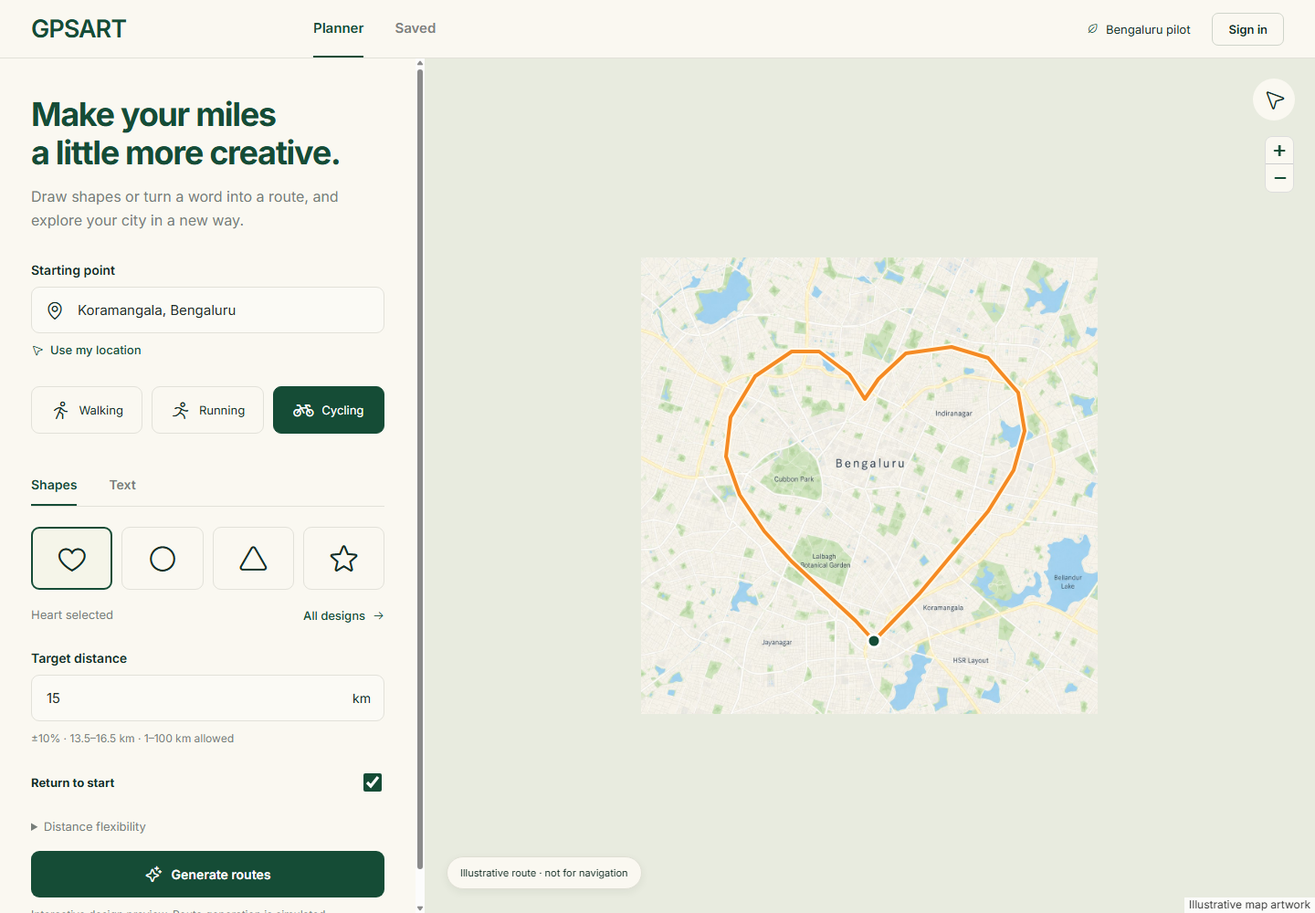
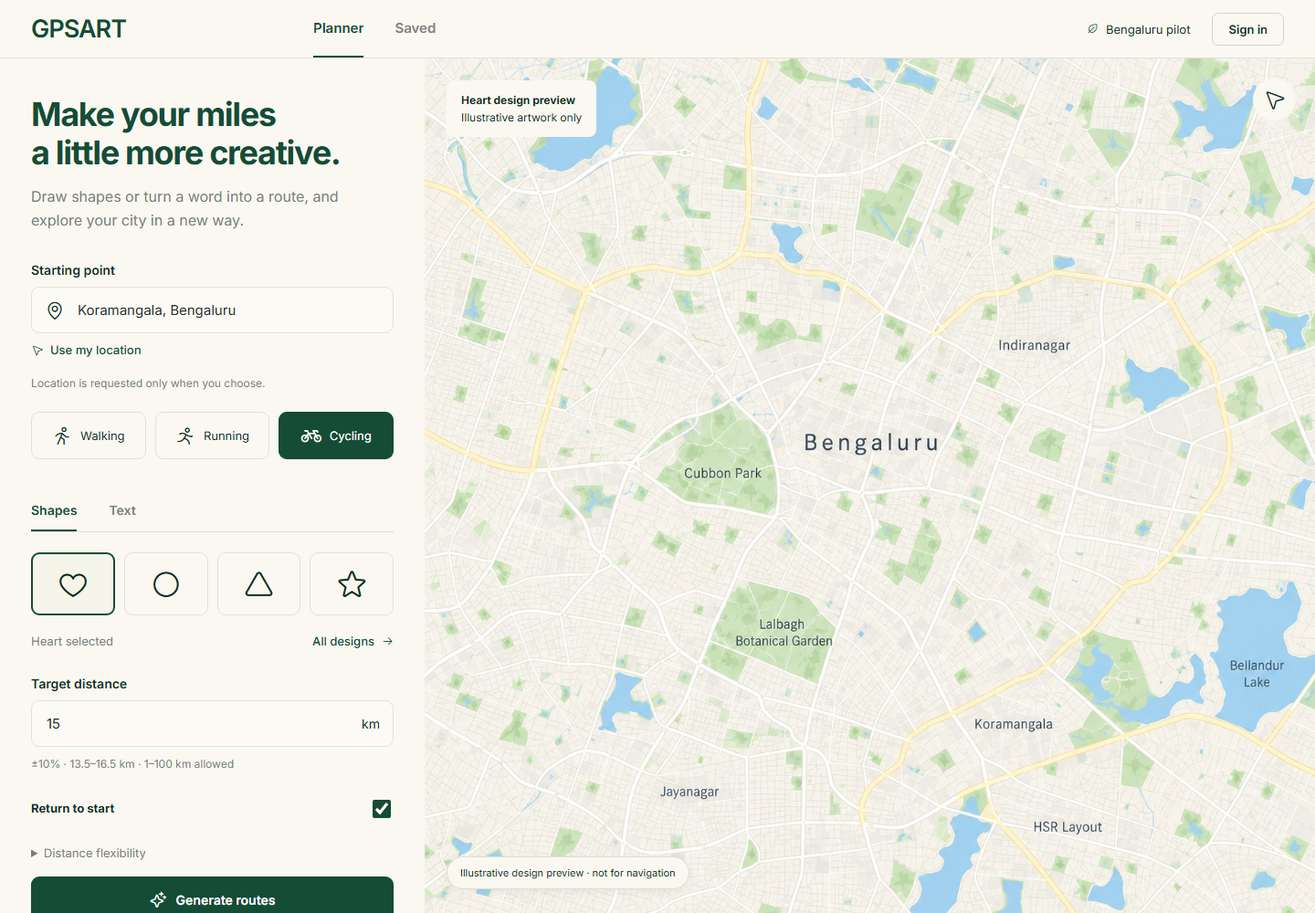
feat(client): complete native TypeScript shell

diff --git a/src/app/screen-controller.ts b/src/app/screen-controller.ts
@@ -1,41 +1,83 @@
 import { distanceBounds } from "../domain/planner.ts";
 import type { LoadedSnapshots } from "../client/storage.ts";
+import { previewsFor } from "./catalogue.ts";
 import type { AppState } from "./state.ts";
-import type { Screen } from "./router.ts";
+import { screens, type Screen } from "./router.ts";
 
-const escapeHtml = (value: string) => value.replace(/[&<>'"]/g, (character) => ({ "&": "&amp;", "<": "&lt;", ">": "&gt;", "'": "&#39;", '"': "&quot;" })[character] ?? character);
-const link = (screen: Screen, label: string) => `<a class="textbutton" href="#/${screen}">${label}</a>`;
-const top = (title: string, subtitle: string) => `<div class="section-top">${link("planner", "Back to planner")}<h1>${title}</h1><p class="muted small">${subtitle}</p></div>`;
+const escapeHtml = (value: string): string => value.replace(/[&<>'"]/g, (character) => ({ "&": "&amp;", "<": "&lt;", ">": "&gt;", "'": "&#39;", '"': "&quot;" })[character] ?? character);
+const icon = (name: string): string => `<i class="ph ph-${name}" aria-hidden="true"></i>`;
+const link = (screen: Screen, label: string): string => `<a class="textbutton" href="#/${screen}">${label}</a>`;
+const top = (title: string, subtitle: string, back: Screen = "planner"): string => `<div class="section-top">${link(back, `${icon("arrow-left")} ${back === "results" ? "Back to results" : "Back to planner"}`)}<h1>${title}</h1><p class="muted small">${subtitle}</p></div>`;
 
-function planner(state: AppState): string {
-  const { request } = state;
-  const bounds = distanceBounds(request.distanceKm, request.tolerancePercent);
-  return `<div class="intro"><h1>Make your miles<br>a little more creative.</h1><p>Choose a design and request a route from the supported service.</p></div><form id="plan-form"><div class="field"><label for="start">Starting point</label><div class="inputwrap"><input id="start" value="${escapeHtml(request.start)}" required placeholder="Place or latitude, longitude"></div><p class="helper">The start is validated by the routing service; it is never silently moved.</p></div><div class="activities" role="group" aria-label="Activity">${(["Walking", "Running", "Cycling"] as const).map((activity) => `<button type="button" class="activity ${request.activity === activity ? "selected" : ""}" data-activity="${activity}" aria-pressed="${request.activity === activity}">${activity}</button>`).join("")}</div><div class="field"><label for="distance">Target distance</label><div class="inputwrap"><input id="distance" type="number" min="1" max="100" step="0.1" value="${request.distanceKm}" required><span>km</span></div><p class="helper">${bounds.minimumKm.toFixed(1)}–${bounds.maximumKm.toFixed(1)} km at ±${request.tolerancePercent}%</p></div><div class="settings"><label class="between small"><strong>Return to start</strong><span class="toggle"><input id="loop" type="checkbox" ${request.returnsToStart ? "checked" : ""}></span></label></div><button class="primary full" type="submit">Generate routes</button></form>`;
+function summary(state: AppState): string {
+  const request = state.request;
+  return `<div class="summary"><strong>${escapeHtml(request.design)} · ${request.activity} · ${request.distanceKm.toFixed(1)} km</strong>${escapeHtml(request.start)}<br>±${request.tolerancePercent}% · ${request.returnsToStart ? "Return to start" : "Separate finish · travel home excluded"}</div>`;
 }
 
-function unavailableResult(title: string, copy: string): string {
-  return `${top(title, copy)}<div class="notice">No route candidate is shown until the server returns a validated, immutable route snapshot. GPSART does not create geometry, distance, safety, or success data in the browser.</div>${link("planner", "Edit request")}`;
+function designPicker(state: AppState, full = false): string {
+  const previews = previewsFor(state.category);
+  const shown = full ? previews : previews.slice(0, 4);
+  return `<div class="tabs" role="tablist" aria-label="Design category">${(["Shapes", "Text"] as const).map((category) => `<button type="button" role="tab" aria-selected="${state.category === category}" class="${state.category === category ? "active" : ""}" data-category="${category}">${category}</button>`).join("")}</div><div class="designs">${shown.map(({ name, icon: iconName, complexity }) => `<button type="button" class="design ${name === state.request.design ? "selected" : ""}" data-design="${name}" aria-label="${name}, ${complexity}" aria-pressed="${name === state.request.design}">${iconName ? icon(iconName) : `<b>${name}</b>`}${full ? `<span class="design-name">${name} · ${complexity}</span>` : ""}</button>`).join("")}</div>`;
+}
+
+function planner(state: AppState): string {
+  const request = state.request;
+  const bounds = distanceBounds(request.distanceKm, request.tolerancePercent);
+  return `<div class="intro"><h1>Make your miles<br>a little more creative.</h1><p>Draw shapes or turn a word into a route, and explore your city in a new way.</p></div><form id="plan-form"><div class="field"><label for="start">Starting point</label><div class="inputwrap">${icon("map-pin")}<input id="start" name="start" value="${escapeHtml(request.start)}" required autocomplete="off" placeholder="Place or latitude, longitude"></div><button type="button" class="textbutton" data-action="location">${icon("navigation-arrow")} Use my location</button><p id="location-status" class="helper">Location is requested only when you choose.</p></div><div class="activities" role="group" aria-label="Activity">${(["Walking", "Running", "Cycling"] as const).map((activity) => `<button type="button" class="activity ${request.activity === activity ? "selected" : ""}" data-activity="${activity}" aria-pressed="${request.activity === activity}">${icon(activity === "Walking" ? "person-simple-walk" : activity === "Running" ? "person-simple-run" : "bicycle")}${activity}</button>`).join("")}</div><div id="design-picker">${designPicker(state)}</div><div class="between" style="margin-top:-20px;margin-bottom:20px"><span class="small muted">${escapeHtml(request.design)} selected</span>${link("catalogue", `All designs ${icon("arrow-right")}`)}</div><div class="field"><label for="distance">Target distance</label><div class="inputwrap"><input id="distance" name="distance" type="number" value="${request.distanceKm}" min="1" max="100" step="0.1" required><span>km</span></div><p id="distance-help" class="helper">±${request.tolerancePercent}% · ${bounds.minimumKm.toFixed(1)}–${bounds.maximumKm.toFixed(1)} km · 1–100 km allowed</p></div><div class="settings"><label class="between small"><strong>Return to start</strong><span class="toggle"><input type="checkbox" id="loop" ${request.returnsToStart ? "checked" : ""} aria-label="Return to start"></span></label></div><details><summary class="small muted" style="cursor:pointer;margin-bottom:16px">Distance flexibility</summary><div class="row"><label for="tolerance">Allowed difference</label><select id="tolerance">${[5, 10, 20].map((value) => `<option value="${value}" ${request.tolerancePercent === value ? "selected" : ""}>±${value}%</option>`).join("")}</select></div></details><button class="primary full" type="submit">${icon("sparkle")} Generate routes</button><p class="helper">The design map is illustrative. Route generation requires the routing service.</p></form>`;
+}
+
+function catalogue(state: AppState): string {
+  return `<div class="catalogue">${top("What will you draw?", "Choose a shape or a ready-made word. Local fit is checked only by the routing service.")}${designPicker(state, true)}<div class="notice">Some designs need more space or repeated sections. Every real connecting section will count toward distance.</div><a class="primary full" href="#/planner">Use ${escapeHtml(state.request.design)} ${icon("arrow-right")}</a><p class="helper">Custom words are planned for a later release.</p></div>`;
+}
+
+function generating(state: AppState): string {
+  return `${top("Finding your next adventure.", "A validated service response is required before a route can be shown.")}${summary(state)}<div class="demo-strip">Routing service unavailable in this foundation build · no search has been simulated.</div><ol class="stage-list" aria-live="polite"><li class="pending">${icon("circle")} Checking roads</li><li class="pending">${icon("circle")} Fitting your design</li><li class="pending">${icon("circle")} Comparing routes</li></ol><p class="small muted">Your request is retained, but no geometry or metrics have been created.</p><a class="secondary full" style="margin-top:24px" href="#/planner">Cancel search</a>`;
+}
+
+function unavailableResult(state: AppState, details: boolean): string {
+  return `${top(details ? "Route details" : "A few ways to make it yours.", details ? "A validated candidate is required before details can be shown." : "Validated route candidates will appear here.", details ? "results" : "planner")}${summary(state)}<span class="hero-icon">${icon("map-trifold")}</span><div class="notice">No route candidate is displayed. GPSART never creates geometry, connectivity, distance, access, instructions, or success metrics in the browser.</div>${link("planner", "Refine your plan")}`;
 }
 
 function saved(loaded: LoadedSnapshots): string {
-  const content = loaded.kind === "unsupported_snapshot" ? "A saved route from an older or unsupported format was found. It has not been loaded." : loaded.kind === "unavailable" ? "Browser storage is unavailable. No route data has been changed." : loaded.snapshots.length ? `${loaded.snapshots.length} validated route snapshot(s) are stored on this device.` : "No validated route snapshots are stored on this device.";
-  return `${top("Your next adventures.", "Saved routes stay on this device unless you choose otherwise.")}<div class="notice">${content}</div>${link("planner", "Plan a route")}`;
+  let content: string;
+  if (loaded.kind === "unsupported_snapshot") content = `<div class="notice">A saved route uses an older, malformed, or unsupported format. It has not been loaded or changed.</div>`;
+  else if (loaded.kind === "unavailable") content = `<div class="notice">Browser storage is unavailable. No route data has been changed.</div>`;
+  else if (!loaded.snapshots.length) content = `<div class="empty-space">${icon("bookmark-simple")}<h2 style="margin:18px 0 12px">A little inspiration for later.</h2><p class="muted small">Save a validated route and it will be waiting here for your next outing.</p><a class="primary full" style="margin-top:28px" href="#/planner">Plan your first route ${icon("arrow-right")}</a></div>`;
+  else content = loaded.snapshots.map((snapshot) => `<article class="saved-row"><span class="eyebrow">Validated route snapshot v${snapshot.version}</span><h3 style="margin-top:10px">${escapeHtml(snapshot.id)}</h3><p class="small muted">${(snapshot.totalMetres / 1000).toFixed(1)} km · ${snapshot.trace.length} recorded points</p><p class="helper">Full route details become available with the route-detail service.</p></article>`).join("");
+  return `${top("Your next adventures.", "Saved on this device. No account needed.")}<div class="notice">These routes stay in this browser. Clearing site data removes them.</div>${content}`;
+}
+
+function failure(screen: "no-match" | "coverage" | "error", state: AppState): string {
+  const copy = screen === "coverage" ? ["Outside our pilot area", "Coverage must be confirmed by the service.", "map-trifold"] : screen === "error" ? ["The route service is unavailable.", "Your inputs are safe and unchanged.", "cloud-slash"] : ["We couldn’t find a fit this time.", "No qualifying route was returned within the search budget.", "path"];
+  return `${top(copy[0], copy[1])}<span class="hero-icon">${icon(copy[2])}</span>${summary(state)}${screen === "no-match" ? `<h3>Try a different approach</h3><p class="notice">Change the distance or design. Suggestions are not treated as routing facts until checked by the service.</p>` : `<div class="notice">${screen === "coverage" ? "No coverage is assumed in the browser." : "Try again when the service is available."}</div>`}${link("planner", "Edit your original request")}`;
+}
+
+function auth(screen: Screen, state: AppState): string {
+  let content: string;
+  if (screen === "login") content = `<span class="eyebrow">A little more connected</span><h1>Your next adventure starts here.</h1><p>Sign in to make GPSART yours. You can always plan and save routes on this device as a guest.</p><button class="google" type="button" data-action="google"><img src="/assets/google-logo.png" alt="">Continue with Google</button><div class="or">or</div><a class="secondary full" href="#/planner">Continue as guest ${icon("arrow-right")}</a><ul class="auth-checks"><li>${icon("check")} No password to remember</li><li>${icon("lock-simple")} Your routes are private by default</li><li>${icon("map-pin")} Location is requested only when you choose</li></ul><div class="demo-strip">Design preview: authentication is not connected. No Google account is accessed.</div>`;
+  else if (screen === "auth-pending") content = `<span class="hero-icon">${icon("circle-notch")}</span><h1>Connecting with Google.</h1><p>No authentication request is sent in this foundation build.</p><div role="status" class="notice">Authentication unavailable.</div>${link("login", "Cancel sign-in")}`;
+  else if (screen === "auth-error") content = `<span class="hero-icon">${icon("warning-circle")}</span><h1>Let’s try that again.</h1><p>Sign-in could not be completed. Your plan and saved routes are still here.</p>${link("login", "Return to sign in")}`;
+  else if (screen === "welcome") content = `<span class="hero-icon">${icon("check-circle")}</span><span class="eyebrow">You’re ready to explore</span><h1>Welcome to GPSART.</h1><p>Your next route is only a few choices away.</p>${link("planner", "Start planning")}`;
+  else content = `<div class="avatar">${icon("user")}</div><span class="eyebrow">${state.signedIn ? "Account" : "Guest"}</span><h1>Your corner of GPSART.</h1><p>Account services are not connected in this build.</p><div class="rows"><div class="row"><span>Route storage</span><strong>On this device</strong></div><div class="row"><span>Cloud sync</span><span>Not connected</span></div></div><a class="primary full" href="#/saved">View saved routes</a>`;
+  return `<main id="content" class="auth-layout"><section class="auth-form"><div class="auth-inner">${content}</div></section><aside class="auth-art" aria-label="Illustrative Bengaluru map"><img src="/assets/map.jpg" alt="Pale illustrative street map of Bengaluru"><div class="auth-quote"><span class="eyebrow">Take the scenic shape</span><h2 style="margin-top:12px">Make your miles<br>a little more creative.</h2><p class="small muted">Illustrative artwork · not a navigable route.</p></div></aside></main>`;
+}
+
+function screenIndex(): string {
+  return `<main id="content" class="screen-index"><span class="eyebrow">GPSART · Design review</span><h1>Every step of the adventure.</h1><p class="muted">Review each state without simulating backend success.</p><div class="screen-list">${screens.filter((screen) => screen !== "screens").map((screen) => `<a class="screen-link" href="#/${screen}"><h3>${screen}</h3><p>Open the ${screen} state.</p></a>`).join("")}</div></main>`;
+}
+
+export function isStandaloneScreen(screen: Screen): boolean {
+  return ["login", "auth-pending", "auth-error", "welcome", "account", "screens"].includes(screen);
 }
 
 export function renderScreen(screen: Screen, state: AppState, loaded: LoadedSnapshots): string {
   if (screen === "planner") return planner(state);
-  if (screen === "catalogue") return `${top("What will you draw?", "Choose a template; local fit is checked by the routing service.")}<div class="designs"><button class="design selected" data-design="Heart">Heart</button><button class="design" data-design="HI">HI</button></div>${link("planner", "Use selected design")}`;
-  if (screen === "generating") return `${top("Finding your next adventure.", "A route request is waiting for a routing service.")}<div class="notice">Generation status is unavailable because no routing service is connected. Your request is retained locally in this page only.</div>${link("planner", "Cancel request")}`;
-  if (screen === "results") return unavailableResult("Route results", "Validated route candidates will appear here.");
-  if (screen === "details") return unavailableResult("Route details", "A validated candidate is required before details can be shown.");
+  if (screen === "catalogue") return catalogue(state);
+  if (screen === "generating") return generating(state);
+  if (screen === "results") return unavailableResult(state, false);
+  if (screen === "details") return unavailableResult(state, true);
   if (screen === "saved") return saved(loaded);
-  if (screen === "no-match") return `${top("We couldn’t find a fit this time.", "No qualifying route was returned within the search budget.")}<div class="notice">Try changing the design or distance. Suggestions are not treated as routing facts.</div>${link("planner", "Edit request")}`;
-  if (screen === "coverage") return `${top("Outside our pilot area", "Coverage must be confirmed by the service.")}<div class="notice">No coverage data is assumed in the browser.</div>${link("planner", "Change starting point")}`;
-  if (screen === "error") return `${top("The route service is unavailable.", "Your input was not changed.")}<div class="notice">Try again when the service is available.</div>${link("planner", "Back to planner")}`;
-  if (screen === "login") return `${top("Your next adventure starts here.", "You can plan as a guest.")}<div class="notice">Authentication is not connected in this build.</div>${link("planner", "Continue as guest")}`;
-  if (screen === "auth-pending") return `${top("Connecting account", "Authentication state is pending.")}<div class="notice">No account data is accessed by this prototype.</div>${link("login", "Cancel sign-in")}`;
-  if (screen === "auth-error") return `${top("Let’s try that again.", "Authentication could not be completed.")}${link("login", "Return to sign in")}`;
-  if (screen === "welcome") return `${top("Welcome to GPSART.", "You’re ready to plan.")}${link("planner", "Start planning")}`;
-  if (screen === "account") return `${top("Your account", "Account data is not connected in this build.")}${link("planner", "Back to planner")}`;
-  return `<main id="content" class="screen-index"><span class="eyebrow">GPSART · Design review</span><h1>Every step of the adventure.</h1><div class="screen-list">${(["planner", "catalogue", "generating", "results", "details", "saved", "no-match", "coverage", "error", "login", "auth-pending", "auth-error", "welcome", "account"] as Screen[]).map((item) => `<a class="screen-link" href="#/${item}"><h3>${item}</h3></a>`).join("")}</div></main>`;
+  if (screen === "no-match" || screen === "coverage" || screen === "error") return failure(screen, state);
+  if (screen === "screens") return screenIndex();
+  return auth(screen, state);
 }

diff --git a/src/app.ts b/src/app.ts
@@ -5,30 +5,96 @@ import "@fontsource/inter/700.css";
 import "@phosphor-icons/web/regular";
 import "./styles.css";
 import { loadRouteSnapshots } from "./client/storage.ts";
-import { unavailableMap } from "./app/map.ts";
-import { currentScreen, navigate, type Screen } from "./app/router.ts";
-import { renderScreen } from "./app/screen-controller.ts";
-import { initialState, updateRequest } from "./app/state.ts";
+import { renderMap } from "./app/map.ts";
+import { currentScreen, navigate } from "./app/router.ts";
+import { isStandaloneScreen, renderScreen } from "./app/screen-controller.ts";
+import { beginRequest, initialState, updateRequest, updateUi } from "./app/state.ts";
+import type { DesignCategory } from "./app/catalogue.ts";
+import type { RouteRequest } from "./domain/planner.ts";
 
 let state = initialState();
 const app = document.querySelector<HTMLElement>("#app");
 if (!app) throw new Error("GPSART requires an #app element");
 const appRoot = app;
 
+function header(screen: string): string {
+  const plannerActive = !["saved", "login", "account", "welcome", "screens"].includes(screen);
+  return `<header class="header"><a class="brand" href="#/planner" aria-label="GPSART home">GPSART</a><nav class="nav" aria-label="Main navigation"><a href="#/planner" class="${plannerActive ? "active" : ""}">Planner</a><a href="#/saved" class="${screen === "saved" ? "active" : ""}">Saved</a></nav><div class="header-end"><span class="pilot"><i class="ph ph-leaf" aria-hidden="true"></i> Bengaluru pilot</span><a class="signin" href="#/${state.signedIn ? "account" : "login"}">${state.signedIn ? "My account" : "Sign in"}</a></div></header>`;
+}
+
 function render(): void {
   const screen = currentScreen(window.location.hash, document.body.dataset.screen);
   const loaded = loadRouteSnapshots(window.localStorage);
-  const workspace = screen === "login" || screen === "auth-pending" || screen === "auth-error" || screen === "welcome" || screen === "account" || screen === "screens" ? renderScreen(screen, state, loaded) : `<main id="content" class="workspace"><section class="panel" aria-label="${screen}">${renderScreen(screen, state, loaded)}</section>${unavailableMap()}</main>`;
-  appRoot.innerHTML = `<header class="header"><a class="brand" href="#/planner" aria-label="GPSART home">GPSART</a><nav class="nav" aria-label="Main navigation">${["planner", "saved"].map((item) => `<a href="#/${item}" class="${screen === item ? "active" : ""}">${item === "planner" ? "Planner" : "Saved"}</a>`).join("")}</nav><div class="header-end"><a class="signin" href="#/login">Sign in</a></div></header>${workspace}`;
+  const body = isStandaloneScreen(screen)
+    ? renderScreen(screen, state, loaded)
+    : `<main id="content" class="workspace ${state.mapExpanded ? "expanded" : ""}"><section class="panel" aria-label="${screen}"><button class="mobile-expand" type="button" data-action="expand"><i class="ph ph-arrows-out-simple" aria-hidden="true"></i> ${state.mapExpanded ? "Reduce map" : "Expand map"}</button>${renderScreen(screen, state, loaded)}</section>${renderMap(screen, state)}</main>`;
+  appRoot.innerHTML = `${header(screen)}${body}`;
   document.title = `${screen} · GPSART`;
   bind();
+  window.scrollTo(0, 0);
+}
+
+function inputValue(id: string): string {
+  return document.querySelector<HTMLInputElement>(`#${id}`)?.value.trim() ?? "";
+}
+
+function patchRequest(changes: Omit<Partial<RouteRequest>, "revision">, rerender = true): void {
+  state = updateRequest(state, changes);
+  if (rerender) render();
+}
+
+function useBrowserLocation(): void {
+  const status = document.querySelector<HTMLElement>("#location-status");
+  if (!status) return;
+  if (!navigator.geolocation) {
+    status.textContent = "Location is unavailable. Enter a place or coordinates.";
+    return;
+  }
+  status.textContent = "Waiting for location permission…";
+  navigator.geolocation.getCurrentPosition(
+    ({ coords }) => {
+      const start = `${coords.latitude.toFixed(5)}, ${coords.longitude.toFixed(5)}`;
+      patchRequest({ start }, false);
+      const input = document.querySelector<HTMLInputElement>("#start");
+      if (input) input.value = start;
+      status.textContent = "Location selected. Coverage still requires server validation.";
+    },
+    () => { status.textContent = "Location unavailable or permission denied. Enter a place or coordinates."; },
+    { timeout: 10_000, maximumAge: 60_000 },
+  );
 }
 
 function bind(): void {
-  document.querySelectorAll<HTMLButtonElement>("[data-activity]").forEach((button) => button.addEventListener("click", () => { state = updateRequest(state, { activity: button.dataset.activity as typeof state.request.activity }); render(); }));
-  document.querySelectorAll<HTMLButtonElement>("[data-design]").forEach((button) => button.addEventListener("click", () => { state = updateRequest(state, { design: button.dataset.design ?? state.request.design }); navigate("planner"); }));
-  const form = document.querySelector<HTMLFormElement>("#plan-form");
-  form?.addEventListener("submit", (event) => { event.preventDefault(); const start = document.querySelector<HTMLInputElement>("#start")?.value.trim() ?? ""; const distance = Number(document.querySelector<HTMLInputElement>("#distance")?.value); const returnsToStart = document.querySelector<HTMLInputElement>("#loop")?.checked ?? true; if (!start || !Number.isFinite(distance) || distance < 1 || distance > 100) return; state = updateRequest(state, { start, distanceKm: distance, returnsToStart }); navigate("generating"); });
+  document.querySelectorAll<HTMLButtonElement>("[data-activity]").forEach((button) => button.addEventListener("click", () => {
+    const activity = button.dataset.activity as RouteRequest["activity"] | undefined;
+    if (activity) patchRequest({ activity });
+  }));
+  document.querySelectorAll<HTMLButtonElement>("[data-category]").forEach((button) => button.addEventListener("click", () => {
+    const category = button.dataset.category as DesignCategory | undefined;
+    if (category) { state = updateUi(state, { category }); render(); }
+  }));
+  document.querySelectorAll<HTMLButtonElement>("[data-design]").forEach((button) => button.addEventListener("click", () => {
+    const design = button.dataset.design;
+    if (design) patchRequest({ design });
+  }));
+  document.querySelector<HTMLInputElement>("#start")?.addEventListener("change", () => patchRequest({ start: inputValue("start") }));
+  document.querySelector<HTMLInputElement>("#distance")?.addEventListener("change", (event) => patchRequest({ distanceKm: Number((event.currentTarget as HTMLInputElement).value) }));
+  document.querySelector<HTMLInputElement>("#loop")?.addEventListener("change", (event) => patchRequest({ returnsToStart: (event.currentTarget as HTMLInputElement).checked }));
+  document.querySelector<HTMLSelectElement>("#tolerance")?.addEventListener("change", (event) => patchRequest({ tolerancePercent: Number((event.currentTarget as HTMLSelectElement).value) }));
+  document.querySelector<HTMLFormElement>("#plan-form")?.addEventListener("submit", (event) => {
+    event.preventDefault();
+    const start = inputValue("start");
+    const distanceKm = Number(inputValue("distance"));
+    if (!start || !Number.isFinite(distanceKm) || distanceKm < 1 || distanceKm > 100) return;
+    state = updateRequest(state, { start, distanceKm });
+    state = beginRequest(state);
+    navigate("generating");
+  });
+  document.querySelectorAll<HTMLButtonElement>("[data-action]").forEach((button) => button.addEventListener("click", () => {
+    if (button.dataset.action === "expand") { state = updateUi(state, { mapExpanded: !state.mapExpanded }); render(); }
+    if (button.dataset.action === "location") useBrowserLocation();
+    if (button.dataset.action === "google") navigate("auth-pending");
+  }));
 }
 
 window.addEventListener("hashchange", render);

diff --git a/src/styles.css b/src/styles.css
@@ -2,4 +2,6 @@
 @media(min-width:1600px){.workspace{grid-template-columns:490px 1fr}.panel{padding:44px 38px}.intro{margin-bottom:40px}}
 @media(max-width:1100px){.workspace{grid-template-columns:390px 1fr}.panel{padding:30px 25px}.nav{margin-left:30px}.header{padding:0 25px;gap:25px}h1{font-size:32px}.header-end{gap:15px}.pilot{font-size:11px}.activity{gap:5px;font-size:12px}.intro p{font-size:15px}}
 @media(max-width:700px){.header{height:60px;padding:0 18px;gap:16px}.brand{font-size:23px}.nav{margin-left:auto;gap:17px}.nav a{font-size:12px}.header-end{margin-left:0;gap:0}.pilot{display:none}.signin{font-size:12px;padding:8px 11px}.workspace{height:auto;min-height:calc(100dvh - 60px);display:flex;flex-direction:column}.map-wrap{height:280px;flex:none;order:0}.panel{order:1;padding:26px 22px 32px;border-radius:20px 20px 0 0;margin-top:-15px;position:relative;overflow:visible}.intro{margin-bottom:24px}.intro h1{font-size:30px;max-width:340px}.intro p{font-size:14px;max-width:none}.map-note{bottom:25px;left:15px;font-size:9px;padding:8px 11px}.map-label{top:15px;left:15px;font-size:11px;padding:8px 12px}.north{top:14px;right:15px;width:35px;height:35px;font-size:20px}.map .leaflet-control-zoom{margin:61px 15px 0 0!important}.mobile-expand{display:block;background:none;border:0;font-size:12px;margin:0 auto 20px;color:var(--muted)}.workspace.expanded .map-wrap{height:60dvh}.activities{margin:20px 0}.designs{margin-bottom:24px}.field{margin:18px 0}.settings{margin:22px 0}.auth-layout{min-height:calc(100dvh - 60px);grid-template-columns:1fr}.auth-form{padding:42px 24px}.auth-art{min-height:320px}.auth-quote{bottom:25px;left:24px;right:24px;padding:20px}.auth-quote h2{font-size:25px}.auth-inner h1{font-size:34px}.screen-list{grid-template-columns:1fr}.screen-index{padding:30px 22px}.section-top h1{font-size:29px}.header .nav a.active{border-bottom:2px solid var(--green)}.storage-name{display:none}.map-wrap .leaflet-control-attribution{font-size:8px}.actions{margin-top:20px}.auth-art .map-note{display:none}}
+.map-art{width:100%;height:100%;object-fit:cover;display:block}
+@media(max-width:700px){html,body,#app{max-width:100%;overflow-x:hidden}.workspace,.panel{width:100%;min-width:0}.header{gap:10px}.nav{gap:12px}.header-end{display:none}.activity{min-width:0;font-size:11px;padding-left:2px;padding-right:2px}}
 @media(prefers-reduced-motion:reduce){*{animation:none!important;scroll-behavior:auto!important}}

diff --git a/src/app/state.ts b/src/app/state.ts
@@ -1,11 +1,44 @@
-import { type RouteRequest, reviseRequest } from "../domain/planner.ts";
+import type { ApiRouteResult } from "../client/api.ts";
+import { isCurrentResult, type RouteRequest, reviseRequest } from "../domain/planner.ts";
+import type { RouteSnapshot } from "../domain/route-snapshot.ts";
+import type { DesignCategory } from "./catalogue.ts";
 
-export interface AppState { request: RouteRequest; signedIn: boolean; }
+export type RouteOutcome = "idle" | "pending" | "route" | "no_match" | "unavailable" | "invalid_response" | "stale";
+
+export interface AppState {
+  readonly request: RouteRequest;
+  readonly signedIn: boolean;
+  readonly category: DesignCategory;
+  readonly mapExpanded: boolean;
+  readonly outcome: RouteOutcome;
+  readonly routeResult: RouteSnapshot | null;
+}
 
 export function initialState(): AppState {
-  return { request: { start: "", activity: "Walking", design: "Heart", distanceKm: 10, tolerancePercent: 10, returnsToStart: true, revision: 0 }, signedIn: false };
+  return {
+    request: { start: "Koramangala, Bengaluru", activity: "Cycling", design: "Heart", distanceKm: 15, tolerancePercent: 10, returnsToStart: true, revision: 0 },
+    signedIn: false,
+    category: "Shapes",
+    mapExpanded: false,
+    outcome: "idle",
+    routeResult: null,
+  };
 }
 
 export function updateRequest(state: AppState, changes: Omit<Partial<RouteRequest>, "revision">): AppState {
-  return { ...state, request: reviseRequest(state.request, changes) };
+  return { ...state, request: reviseRequest(state.request, changes), outcome: "idle", routeResult: null };
+}
+
+export function beginRequest(state: AppState): AppState {
+  return { ...state, outcome: "pending", routeResult: null };
+}
+
+export function acceptApiResult(state: AppState, result: ApiRouteResult): AppState {
+  if (result.kind !== "route") return { ...state, outcome: result.kind, routeResult: null };
+  if (!isCurrentResult(state.request, result.snapshot.requestRevision)) return { ...state, outcome: "stale", routeResult: null };
+  return { ...state, outcome: "route", routeResult: result.snapshot };
+}
+
+export function updateUi(state: AppState, changes: Partial<Pick<AppState, "signedIn" | "category" | "mapExpanded">>): AppState {
+  return { ...state, ...changes };
 }

diff --git a/tests/app-state.test.ts b/tests/app-state.test.ts
@@ -1,0 +1,28 @@
+import assert from "node:assert/strict";
+import test from "node:test";
+import { acceptApiResult, initialState, updateRequest } from "../src/app/state.ts";
+
+const snapshot = { id: "route-1", version: 1, requestRevision: 0, totalMetres: 1_000, trace: [{ latitude: 10, longitude: 20 }] } as const;
+
+test("route-affecting input has one revisioned model", () => {
+  const state = initialState();
+  const changed = updateRequest(state, { design: "Circle", distanceKm: 12 });
+  assert.equal(changed.request.design, "Circle");
+  assert.equal(changed.request.distanceKm, 12);
+  assert.equal(changed.request.revision, state.request.revision + 1);
+});
+
+test("decoded results enter state only when their request revision is current", () => {
+  const state = initialState();
+  const accepted = acceptApiResult(state, { kind: "route", snapshot });
+  assert.equal(accepted.routeResult?.id, "route-1");
+  const revised = updateRequest(accepted, { distanceKm: 11 });
+  assert.equal(acceptApiResult(revised, { kind: "route", snapshot }).routeResult, null);
+});
+
+test("non-route outcomes are explicit and never synthesize a candidate", () => {
+  const state = initialState();
+  assert.equal(acceptApiResult(state, { kind: "no_match" }).outcome, "no_match");
+  assert.equal(acceptApiResult(state, { kind: "unavailable" }).outcome, "unavailable");
+  assert.equal(acceptApiResult(state, { kind: "invalid_response" }).outcome, "invalid_response");
+});

diff --git a/src/app/map.ts b/src/app/map.ts
@@ -1,3 +1,12 @@
-export function unavailableMap(): string {
-  return `<section class="map-wrap" aria-label="Route map unavailable"><div class="map-note">Route geometry unavailable until a routing result is returned.</div></section>`;
+import type { Screen } from "./router.ts";
+import type { AppState } from "./state.ts";
+
+const previewScreens: readonly Screen[] = ["planner", "catalogue"];
+
+export function renderMap(screen: Screen, state: AppState): string {
+  const preview = previewScreens.includes(screen);
+  const label = preview
+    ? `<div class="map-label"><strong>${state.request.design} design preview</strong><br>Illustrative artwork only</div>`
+    : `<div class="map-label"><strong>Route geometry unavailable</strong><br>A validated routing result is required.</div>`;
+  return `<section class="map-wrap" aria-label="${preview ? "Illustrative design map" : "Route map unavailable"}"><img class="map-art" src="/assets/map.jpg" alt="Pale illustrative street-map artwork of Bengaluru">${label}<div class="north" aria-label="North"><i class="ph ph-navigation-arrow" aria-hidden="true"></i></div><div class="map-note">${preview ? "Illustrative design preview · not for navigation" : "No route is displayed · routing service not connected"}</div></section>`;
 }

diff --git a/src/main.ts b/src/main.ts
@@ -1,2 +1,1 @@
-// The existing visual shell stays active until its screen layouts are ported one-for-one.
-import "./app.js";
+import "./app.ts";

diff --git a/factory/handoffs/TS-003-client-typescript-takeover.md b/factory/handoffs/TS-003-client-typescript-takeover.md
@@ -1,6 +1,6 @@
 # TS-003 takeover handoff
 
-**Status:** incomplete; released for another developer to claim.  
+**Status:** implementation complete; ready for independent QA.  
 **Producer:** `codex/root`  
 **Last verified:** 2026-10-02  
 **Base commit:** `5683e9d`
@@ -10,7 +10,7 @@
 - React, React DOM, and the React Vite plugin were removed. Vite builds all five HTML entry points through `src/main.ts`.
 - Strict TypeScript is enabled by `tsconfig.json`; `npm run build` runs `npm run typecheck` first.
 - Typed domain/client modules exist for planner requests, immutable route snapshots, API decoding, browser storage, routing, and the design catalogue.
-- The live existing visual shell remains active through `src/main.ts` importing `src/app.js`; it was intentionally retained after QA found that its replacement reduced the visual designs to placeholders.
+- The retained visual shell is now rendered by native typed modules through `src/main.ts` importing `src/app.ts`; the legacy `src/app.js` controller was removed.
 - The live Shapes/Text catalogue now imports typed previews from `src/app/catalogue.ts` without visual change.
 - Evidence captures are in `docs/evidence/ts-003-desktop-planner.png` and `docs/evidence/ts-003-mobile-planner.png`. They show labelled illustrative prototype data only.
 - `npm run factory:verify` passes at this commit with the workspace-local Node runtime in `.tools/node-v22.15.0-win-x64` when the system runtime is absent.
@@ -23,9 +23,9 @@
 | `src/domain/route-snapshot.ts` | immutable `RouteSnapshot` decoder | `src/client/api.ts`, `src/client/storage.ts` | rejects malformed positions, revisions, and distances; do not loosen validation |
 | `src/client/api.ts` | `decodeApiRouteResult` discriminated API result | future TS-204 browser client | no API response enters app state before decoding |
 | `src/client/storage.ts` | versioned `gpsart.route-snapshots.v1` records | saved-route controller | malformed/legacy values must return `unsupported_snapshot`, never crash startup |
-| `src/app/catalogue.ts` | typed design preview catalogue | active `src/app.js` | preserves Heart/Circle/Triangle/Star/Square and HI/GO/RUN |
+| `src/app/catalogue.ts` | typed design preview catalogue | active `src/app.ts` | preserves Heart/Circle/Triangle/Star/Square and HI/GO/RUN |
 
-## Remaining acceptance work
+## Original takeover checklist (completed; pending QA confirmation)
 
 1. Port the active visual screen structures from `src/app.js` into typed modules one-for-one: rendering, router, state, map, storage, API boundary, and screen controllers. Preserve desktop and 360px layouts rather than replacing them with placeholder panels.
 2. Make the typed planner form model the only route-affecting browser state. Route results must use request revisions and reject stale results.
@@ -33,6 +33,8 @@
 4. Keep the current map/design fixture only if it is build-time-only and visibly labelled as illustrative; never present it as navigable output.
 5. Wire saved-route rendering to `loadRouteSnapshots`/`saveRouteSnapshots`, preserving the explicit unsupported-snapshot state.
 6. Recapture desktop and 360px screenshots from the final typed implementation, update story evidence, and request an independent QA review.
+
+Completion notes: `AppState.request` is the sole route-affecting model; request edits clear prior results and decoded snapshots are accepted only at the current revision. Generated candidates, metrics, GPX, and timer-driven success were removed. The map fixture is labelled illustrative, and malformed saved data produces an explicit unsupported state. Final desktop and true 360 px captures were regenerated on 2026-10-02.
 
 ## Important QA finding
 
